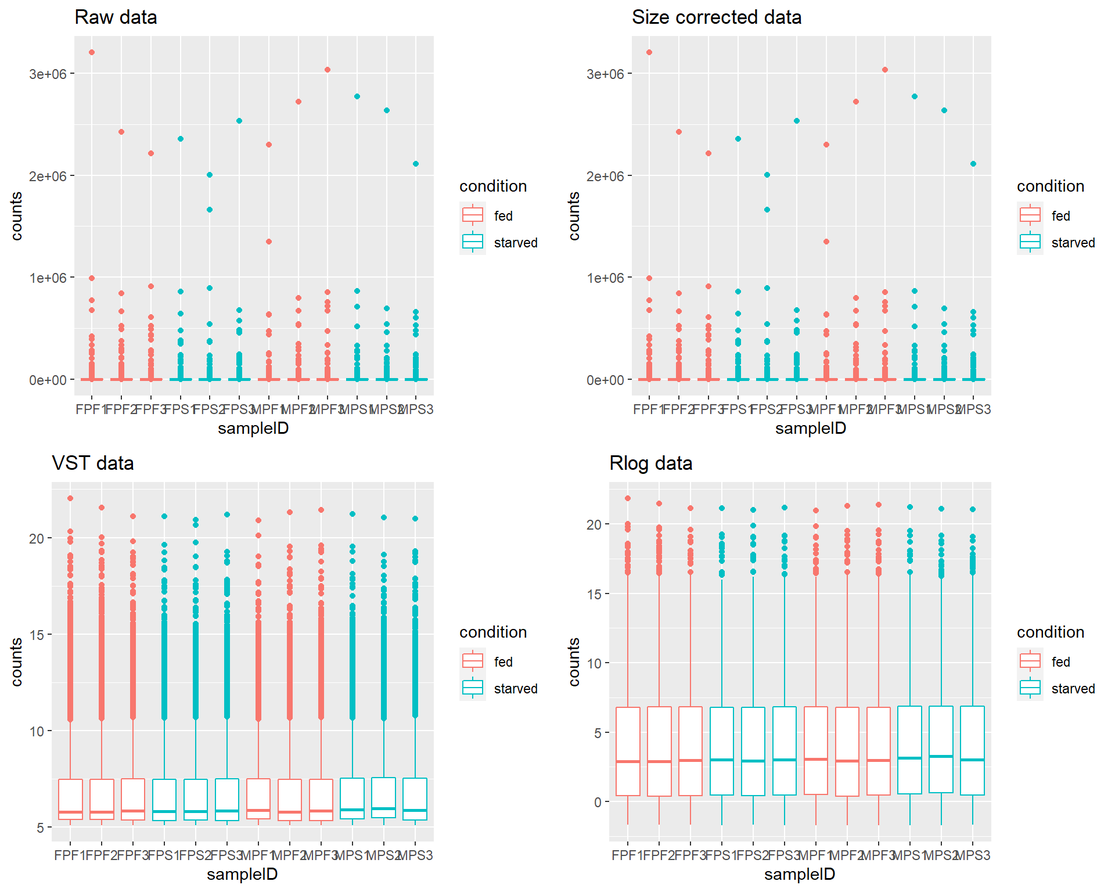
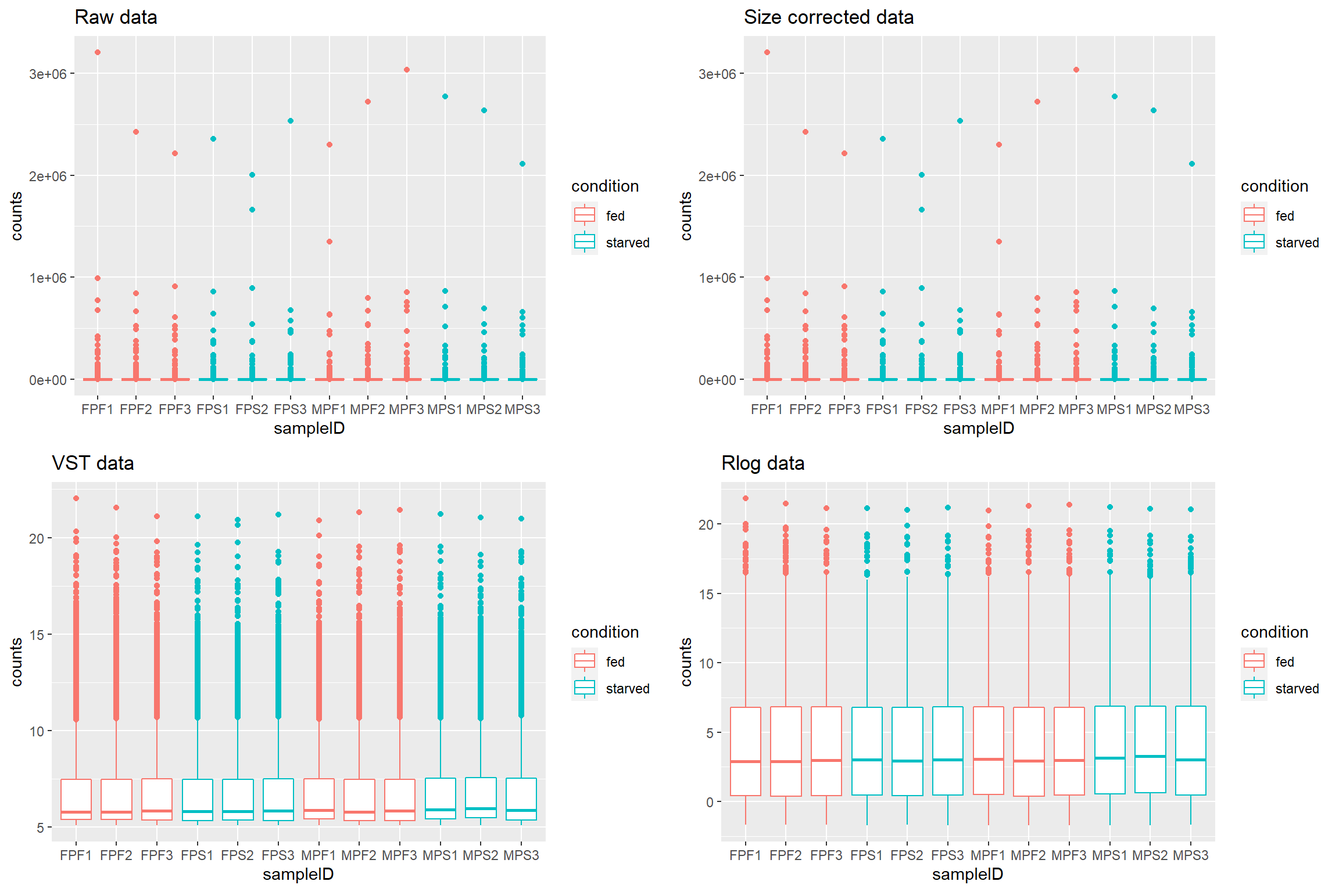
collapsible code

diff --git a/docs/de.html b/docs/de.html
@@ -285,7 +285,7 @@ href="https://bioconductor.org/packages/release/bioc/vignettes/tximport/inst/doc
 <p>The data for this tutorial comes from an the salivary glands of 12
 <em>N. pustulatus</em> beetles, half of which were starved from 5
 days.</p>
-<template id="35153314-d8a1-446e-b3de-abcb552cb8df"><style>
+<template id="77813add-142c-4a56-990d-516400593a04"><style>
 .tabwid table{
   border-spacing:0px !important;
   border-collapse:collapse;
@@ -324,11 +324,11 @@ background-color: transparent;
 .katex-display {
     margin: 0 0 !important;
 }
-</style><div class="tabwid"><style>.cl-70f02a1c{}.cl-70e30e5e{font-family:'Arial';font-size:11pt;font-weight:normal;font-style:normal;text-decoration:none;color:rgba(0, 0, 0, 1.00);background-color:transparent;}.cl-70ea7b26{margin:0;text-align:left;border-bottom: 0 solid rgba(0, 0, 0, 1.00);border-top: 0 solid rgba(0, 0, 0, 1.00);border-left: 0 solid rgba(0, 0, 0, 1.00);border-right: 0 solid rgba(0, 0, 0, 1.00);padding-bottom:5pt;padding-top:5pt;padding-left:5pt;padding-right:5pt;line-height: 1;background-color:transparent;}.cl-70ea957a{width:0.75in;background-color:transparent;vertical-align: middle;border-bottom: 2pt solid rgba(102, 102, 102, 1.00);border-top: 2pt solid rgba(102, 102, 102, 1.00);border-left: 0 solid rgba(0, 0, 0, 1.00);border-right: 0 solid rgba(0, 0, 0, 1.00);margin-bottom:0;margin-top:0;margin-left:0;margin-right:0;}.cl-70ea9584{width:0.75in;background-color:transparent;vertical-align: middle;border-bottom: 0 solid rgba(0, 0, 0, 1.00);border-top: 0 solid rgba(0, 0, 0, 1.00);border-left: 0 solid rgba(0, 0, 0, 1.00);border-right: 0 solid rgba(0, 0, 0, 1.00);margin-bottom:0;margin-top:0;margin-left:0;margin-right:0;}.cl-70ea9585{width:0.75in;background-color:transparent;vertical-align: middle;border-bottom: 2pt solid rgba(102, 102, 102, 1.00);border-top: 0 solid rgba(0, 0, 0, 1.00);border-left: 0 solid rgba(0, 0, 0, 1.00);border-right: 0 solid rgba(0, 0, 0, 1.00);margin-bottom:0;margin-top:0;margin-left:0;margin-right:0;}</style><table class='cl-70f02a1c'><thead><tr style="overflow-wrap:break-word;"><td class="cl-70ea957a"><p class="cl-70ea7b26"><span class="cl-70e30e5e">sampleID</span></p></td><td class="cl-70ea957a"><p class="cl-70ea7b26"><span class="cl-70e30e5e">gender</span></p></td><td class="cl-70ea957a"><p class="cl-70ea7b26"><span class="cl-70e30e5e">condition</span></p></td></tr></thead><tbody><tr style="overflow-wrap:break-word;"><td class="cl-70ea9584"><p class="cl-70ea7b26"><span class="cl-70e30e5e">FPF1</span></p></td><td class="cl-70ea9584"><p class="cl-70ea7b26"><span class="cl-70e30e5e">female</span></p></td><td class="cl-70ea9584"><p class="cl-70ea7b26"><span class="cl-70e30e5e">fed</span></p></td></tr><tr style="overflow-wrap:break-word;"><td class="cl-70ea9584"><p class="cl-70ea7b26"><span class="cl-70e30e5e">FPF2</span></p></td><td class="cl-70ea9584"><p class="cl-70ea7b26"><span class="cl-70e30e5e">female</span></p></td><td class="cl-70ea9584"><p class="cl-70ea7b26"><span class="cl-70e30e5e">fed</span></p></td></tr><tr style="overflow-wrap:break-word;"><td class="cl-70ea9584"><p class="cl-70ea7b26"><span class="cl-70e30e5e">FPF3</span></p></td><td class="cl-70ea9584"><p class="cl-70ea7b26"><span class="cl-70e30e5e">female</span></p></td><td class="cl-70ea9584"><p class="cl-70ea7b26"><span class="cl-70e30e5e">fed</span></p></td></tr><tr style="overflow-wrap:break-word;"><td class="cl-70ea9584"><p class="cl-70ea7b26"><span class="cl-70e30e5e">FPS1</span></p></td><td class="cl-70ea9584"><p class="cl-70ea7b26"><span class="cl-70e30e5e">female</span></p></td><td class="cl-70ea9584"><p class="cl-70ea7b26"><span class="cl-70e30e5e">starved</span></p></td></tr><tr style="overflow-wrap:break-word;"><td class="cl-70ea9584"><p class="cl-70ea7b26"><span class="cl-70e30e5e">FPS2</span></p></td><td class="cl-70ea9584"><p class="cl-70ea7b26"><span class="cl-70e30e5e">female</span></p></td><td class="cl-70ea9584"><p class="cl-70ea7b26"><span class="cl-70e30e5e">starved</span></p></td></tr><tr style="overflow-wrap:break-word;"><td class="cl-70ea9584"><p class="cl-70ea7b26"><span class="cl-70e30e5e">FPS3</span></p></td><td class="cl-70ea9584"><p class="cl-70ea7b26"><span class="cl-70e30e5e">female</span></p></td><td class="cl-70ea9584"><p class="cl-70ea7b26"><span class="cl-70e30e5e">starved</span></p></td></tr><tr style="overflow-wrap:break-word;"><td class="cl-70ea9584"><p class="cl-70ea7b26"><span class="cl-70e30e5e">MPF1</span></p></td><td class="cl-70ea9584"><p class="cl-70ea7b26"><span class="cl-70e30e5e">male</span></p></td><td class="cl-70ea9584"><p class="cl-70ea7b26"><span class="cl-70e30e5e">fed</span></p></td></tr><tr style="overflow-wrap:break-word;"><td class="cl-70ea9584"><p class="cl-70ea7b26"><span class="cl-70e30e5e">MPF2</span></p></td><td class="cl-70ea9584"><p class="cl-70ea7b26"><span class="cl-70e30e5e">male</span></p></td><td class="cl-70ea9584"><p class="cl-70ea7b26"><span class="cl-70e30e5e">fed</span></p></td></tr><tr style="overflow-wrap:break-word;"><td class="cl-70ea9584"><p class="cl-70ea7b26"><span class="cl-70e30e5e">MPF3</span></p></td><td class="cl-70ea9584"><p class="cl-70ea7b26"><span class="cl-70e30e5e">male</span></p></td><td class="cl-70ea9584"><p class="cl-70ea7b26"><span class="cl-70e30e5e">fed</span></p></td></tr><tr style="overflow-wrap:break-word;"><td class="cl-70ea9584"><p class="cl-70ea7b26"><span class="cl-70e30e5e">MPS1</span></p></td><td class="cl-70ea9584"><p class="cl-70ea7b26"><span class="cl-70e30e5e">male</span></p></td><td class="cl-70ea9584"><p class="cl-70ea7b26"><span class="cl-70e30e5e">starved</span></p></td></tr><tr style="overflow-wrap:break-word;"><td class="cl-70ea9584"><p class="cl-70ea7b26"><span class="cl-70e30e5e">MPS2</span></p></td><td class="cl-70ea9584"><p class="cl-70ea7b26"><span class="cl-70e30e5e">male</span></p></td><td class="cl-70ea9584"><p class="cl-70ea7b26"><span class="cl-70e30e5e">starved</span></p></td></tr><tr style="overflow-wrap:break-word;"><td class="cl-70ea9585"><p class="cl-70ea7b26"><span class="cl-70e30e5e">MPS3</span></p></td><td class="cl-70ea9585"><p class="cl-70ea7b26"><span class="cl-70e30e5e">male</span></p></td><td class="cl-70ea9585"><p class="cl-70ea7b26"><span class="cl-70e30e5e">starved</span></p></td></tr></tbody></table></div></template>
-<div class="flextable-shadow-host" id="345a548d-ea21-42ee-8728-058b1f7adbd6"></div>
+</style><div class="tabwid"><style>.cl-889bb9c0{}.cl-888bdbea{font-family:'Arial';font-size:11pt;font-weight:normal;font-style:normal;text-decoration:none;color:rgba(0, 0, 0, 1.00);background-color:transparent;}.cl-889224d2{margin:0;text-align:left;border-bottom: 0 solid rgba(0, 0, 0, 1.00);border-top: 0 solid rgba(0, 0, 0, 1.00);border-left: 0 solid rgba(0, 0, 0, 1.00);border-right: 0 solid rgba(0, 0, 0, 1.00);padding-bottom:5pt;padding-top:5pt;padding-left:5pt;padding-right:5pt;line-height: 1;background-color:transparent;}.cl-889249d0{width:0.75in;background-color:transparent;vertical-align: middle;border-bottom: 2pt solid rgba(102, 102, 102, 1.00);border-top: 2pt solid rgba(102, 102, 102, 1.00);border-left: 0 solid rgba(0, 0, 0, 1.00);border-right: 0 solid rgba(0, 0, 0, 1.00);margin-bottom:0;margin-top:0;margin-left:0;margin-right:0;}.cl-889249da{width:0.75in;background-color:transparent;vertical-align: middle;border-bottom: 0 solid rgba(0, 0, 0, 1.00);border-top: 0 solid rgba(0, 0, 0, 1.00);border-left: 0 solid rgba(0, 0, 0, 1.00);border-right: 0 solid rgba(0, 0, 0, 1.00);margin-bottom:0;margin-top:0;margin-left:0;margin-right:0;}.cl-889249e4{width:0.75in;background-color:transparent;vertical-align: middle;border-bottom: 2pt solid rgba(102, 102, 102, 1.00);border-top: 0 solid rgba(0, 0, 0, 1.00);border-left: 0 solid rgba(0, 0, 0, 1.00);border-right: 0 solid rgba(0, 0, 0, 1.00);margin-bottom:0;margin-top:0;margin-left:0;margin-right:0;}</style><table class='cl-889bb9c0'><thead><tr style="overflow-wrap:break-word;"><td class="cl-889249d0"><p class="cl-889224d2"><span class="cl-888bdbea">sampleID</span></p></td><td class="cl-889249d0"><p class="cl-889224d2"><span class="cl-888bdbea">gender</span></p></td><td class="cl-889249d0"><p class="cl-889224d2"><span class="cl-888bdbea">condition</span></p></td></tr></thead><tbody><tr style="overflow-wrap:break-word;"><td class="cl-889249da"><p class="cl-889224d2"><span class="cl-888bdbea">FPF1</span></p></td><td class="cl-889249da"><p class="cl-889224d2"><span class="cl-888bdbea">female</span></p></td><td class="cl-889249da"><p class="cl-889224d2"><span class="cl-888bdbea">fed</span></p></td></tr><tr style="overflow-wrap:break-word;"><td class="cl-889249da"><p class="cl-889224d2"><span class="cl-888bdbea">FPF2</span></p></td><td class="cl-889249da"><p class="cl-889224d2"><span class="cl-888bdbea">female</span></p></td><td class="cl-889249da"><p class="cl-889224d2"><span class="cl-888bdbea">fed</span></p></td></tr><tr style="overflow-wrap:break-word;"><td class="cl-889249da"><p class="cl-889224d2"><span class="cl-888bdbea">FPF3</span></p></td><td class="cl-889249da"><p class="cl-889224d2"><span class="cl-888bdbea">female</span></p></td><td class="cl-889249da"><p class="cl-889224d2"><span class="cl-888bdbea">fed</span></p></td></tr><tr style="overflow-wrap:break-word;"><td class="cl-889249da"><p class="cl-889224d2"><span class="cl-888bdbea">FPS1</span></p></td><td class="cl-889249da"><p class="cl-889224d2"><span class="cl-888bdbea">female</span></p></td><td class="cl-889249da"><p class="cl-889224d2"><span class="cl-888bdbea">starved</span></p></td></tr><tr style="overflow-wrap:break-word;"><td class="cl-889249da"><p class="cl-889224d2"><span class="cl-888bdbea">FPS2</span></p></td><td class="cl-889249da"><p class="cl-889224d2"><span class="cl-888bdbea">female</span></p></td><td class="cl-889249da"><p class="cl-889224d2"><span class="cl-888bdbea">starved</span></p></td></tr><tr style="overflow-wrap:break-word;"><td class="cl-889249da"><p class="cl-889224d2"><span class="cl-888bdbea">FPS3</span></p></td><td class="cl-889249da"><p class="cl-889224d2"><span class="cl-888bdbea">female</span></p></td><td class="cl-889249da"><p class="cl-889224d2"><span class="cl-888bdbea">starved</span></p></td></tr><tr style="overflow-wrap:break-word;"><td class="cl-889249da"><p class="cl-889224d2"><span class="cl-888bdbea">MPF1</span></p></td><td class="cl-889249da"><p class="cl-889224d2"><span class="cl-888bdbea">male</span></p></td><td class="cl-889249da"><p class="cl-889224d2"><span class="cl-888bdbea">fed</span></p></td></tr><tr style="overflow-wrap:break-word;"><td class="cl-889249da"><p class="cl-889224d2"><span class="cl-888bdbea">MPF2</span></p></td><td class="cl-889249da"><p class="cl-889224d2"><span class="cl-888bdbea">male</span></p></td><td class="cl-889249da"><p class="cl-889224d2"><span class="cl-888bdbea">fed</span></p></td></tr><tr style="overflow-wrap:break-word;"><td class="cl-889249da"><p class="cl-889224d2"><span class="cl-888bdbea">MPF3</span></p></td><td class="cl-889249da"><p class="cl-889224d2"><span class="cl-888bdbea">male</span></p></td><td class="cl-889249da"><p class="cl-889224d2"><span class="cl-888bdbea">fed</span></p></td></tr><tr style="overflow-wrap:break-word;"><td class="cl-889249da"><p class="cl-889224d2"><span class="cl-888bdbea">MPS1</span></p></td><td class="cl-889249da"><p class="cl-889224d2"><span class="cl-888bdbea">male</span></p></td><td class="cl-889249da"><p class="cl-889224d2"><span class="cl-888bdbea">starved</span></p></td></tr><tr style="overflow-wrap:break-word;"><td class="cl-889249da"><p class="cl-889224d2"><span class="cl-888bdbea">MPS2</span></p></td><td class="cl-889249da"><p class="cl-889224d2"><span class="cl-888bdbea">male</span></p></td><td class="cl-889249da"><p class="cl-889224d2"><span class="cl-888bdbea">starved</span></p></td></tr><tr style="overflow-wrap:break-word;"><td class="cl-889249e4"><p class="cl-889224d2"><span class="cl-888bdbea">MPS3</span></p></td><td class="cl-889249e4"><p class="cl-889224d2"><span class="cl-888bdbea">male</span></p></td><td class="cl-889249e4"><p class="cl-889224d2"><span class="cl-888bdbea">starved</span></p></td></tr></tbody></table></div></template>
+<div class="flextable-shadow-host" id="3472c8ae-8b02-4d86-98cf-b1729b103a0a"></div>
 <script>
-var dest = document.getElementById("345a548d-ea21-42ee-8728-058b1f7adbd6");
-var template = document.getElementById("35153314-d8a1-446e-b3de-abcb552cb8df");
+var dest = document.getElementById("3472c8ae-8b02-4d86-98cf-b1729b103a0a");
+var template = document.getElementById("77813add-142c-4a56-990d-516400593a04");
 var caption = template.content.querySelector("caption");
 var fantome = dest.attachShadow({mode: 'open'});
 var templateContent = template.content;
@@ -459,7 +459,7 @@ particular gene/transcript if raw data were used for the analysis.</p>
 <span id="cb14-7"><a href="#cb14-7" aria-hidden="true" tabindex="-1"></a>  <span class="fu">geom_col</span>() <span class="sc">+</span></span>
 <span id="cb14-8"><a href="#cb14-8" aria-hidden="true" tabindex="-1"></a>  <span class="fu">labs</span>(<span class="at">x =</span> <span class="st">&#39;Sample Name&#39;</span>,</span>
 <span id="cb14-9"><a href="#cb14-9" aria-hidden="true" tabindex="-1"></a>       <span class="at">y =</span> <span class="st">&#39;Library size&#39;</span>)</span></code></pre></div>
-<p><img src="de_files/figure-html/unnamed-chunk-7-1.png" width="960" /></p>
+<p><img src="de_files/figure-html/unnamed-chunk-7-1.png" width="1152" style="display: block; margin: auto;" /></p>
 <p>To deal with these differences <strong>size factors</strong> need to
 be calculated and then incorporated in the data to make the counts more
 comparable. In the case of <code>DESeq2</code>, the estimated size
@@ -477,7 +477,7 @@ particular gene/transcript across several samples, the counts among
 those samples should be made comparable and not an effect of external
 factors. Several methods for normalizing RNA-seq data have been proposed
 but not all have passed the test of time.</p>
-<template id="513d0002-9e62-499b-9b6d-f805c4bd7ccd"><style>
+<template id="f3e32686-64d3-43b6-a28a-66265844c003"><style>
 .tabwid table{
   border-spacing:0px !important;
   border-collapse:collapse;
@@ -516,11 +516,11 @@ background-color: transparent;
 .katex-display {
     margin: 0 0 !important;
 }
-</style><div class="tabwid"><style>.cl-72a0caec{}.cl-72944c22{font-family:'Arial';font-size:11pt;font-weight:normal;font-style:normal;text-decoration:none;color:rgba(0, 0, 0, 1.00);background-color:transparent;}.cl-72994326{margin:0;text-align:left;border-bottom: 0 solid rgba(0, 0, 0, 1.00);border-top: 0 solid rgba(0, 0, 0, 1.00);border-left: 0 solid rgba(0, 0, 0, 1.00);border-right: 0 solid rgba(0, 0, 0, 1.00);padding-bottom:5pt;padding-top:5pt;padding-left:5pt;padding-right:5pt;line-height: 1;background-color:transparent;}.cl-72995a6e{width:0.75in;background-color:transparent;vertical-align: middle;border-bottom: 2pt solid rgba(102, 102, 102, 1.00);border-top: 2pt solid rgba(102, 102, 102, 1.00);border-left: 0 solid rgba(0, 0, 0, 1.00);border-right: 0 solid rgba(0, 0, 0, 1.00);margin-bottom:0;margin-top:0;margin-left:0;margin-right:0;}.cl-72995a78{width:0.75in;background-color:transparent;vertical-align: middle;border-bottom: 0 solid rgba(0, 0, 0, 1.00);border-top: 0 solid rgba(0, 0, 0, 1.00);border-left: 0 solid rgba(0, 0, 0, 1.00);border-right: 0 solid rgba(0, 0, 0, 1.00);margin-bottom:0;margin-top:0;margin-left:0;margin-right:0;}.cl-72995a79{width:0.75in;background-color:transparent;vertical-align: middle;border-bottom: 2pt solid rgba(102, 102, 102, 1.00);border-top: 0 solid rgba(0, 0, 0, 1.00);border-left: 0 solid rgba(0, 0, 0, 1.00);border-right: 0 solid rgba(0, 0, 0, 1.00);margin-bottom:0;margin-top:0;margin-left:0;margin-right:0;}</style><table class='cl-72a0caec'><thead><tr style="overflow-wrap:break-word;"><td class="cl-72995a6e"><p class="cl-72994326"><span class="cl-72944c22">Normalization method</span></p></td><td class="cl-72995a6e"><p class="cl-72994326"><span class="cl-72944c22">Description</span></p></td><td class="cl-72995a6e"><p class="cl-72994326"><span class="cl-72944c22">Accounted factors</span></p></td><td class="cl-72995a6e"><p class="cl-72994326"><span class="cl-72944c22">Recommendations for use</span></p></td></tr></thead><tbody><tr style="overflow-wrap:break-word;"><td class="cl-72995a78"><p class="cl-72994326"><span class="cl-72944c22">CPM<a0>(counts per million)</span></p></td><td class="cl-72995a78"><p class="cl-72994326"><span class="cl-72944c22">counts scaled by total number of reads</span></p></td><td class="cl-72995a78"><p class="cl-72994326"><span class="cl-72944c22">sequencing depth</span></p></td><td class="cl-72995a78"><p class="cl-72994326"><span class="cl-72944c22">gene count comparisons between replicates of the same samplegroup;<a0>NOT for within sample comparisons or DE analysis</span></p></td></tr><tr style="overflow-wrap:break-word;"><td class="cl-72995a78"><p class="cl-72994326"><span class="cl-72944c22">TPM<a0>(transcripts per kilobase million)</span></p></td><td class="cl-72995a78"><p class="cl-72994326"><span class="cl-72944c22">counts per length of transcript (kb) per million reads mapped</span></p></td><td class="cl-72995a78"><p class="cl-72994326"><span class="cl-72944c22">sequencing depth and gene length</span></p></td><td class="cl-72995a78"><p class="cl-72994326"><span class="cl-72944c22">gene count comparisons within a sample or between samples of the same sample group;<a0>NOT for DE analysis</span></p></td></tr><tr style="overflow-wrap:break-word;"><td class="cl-72995a78"><p class="cl-72994326"><span class="cl-72944c22">RPKM/FPKM<a0>(reads/fragments per kilobase of exon per million reads/fragments mapped)</span></p></td><td class="cl-72995a78"><p class="cl-72994326"><span class="cl-72944c22">similar to TPM</span></p></td><td class="cl-72995a78"><p class="cl-72994326"><span class="cl-72944c22">sequencing depth and gene length</span></p></td><td class="cl-72995a78"><p class="cl-72994326"><span class="cl-72944c22">gene count comparisons between genes within a sample;<a0>NOT for between sample comparisons or DE analysis</span></p></td></tr><tr style="overflow-wrap:break-word;"><td class="cl-72995a78"><p class="cl-72994326"><span class="cl-72944c22">DESeq2<92>s<a0>median of ratios</span></p></td><td class="cl-72995a78"><p class="cl-72994326"><span class="cl-72944c22">counts divided by sample-specific size factors determined by median ratio of gene counts relative to geometric mean per gene</span></p></td><td class="cl-72995a78"><p class="cl-72994326"><span class="cl-72944c22">sequencing depth and RNA composition</span></p></td><td class="cl-72995a78"><p class="cl-72994326"><span class="cl-72944c22">gene count comparisons between samples and for<a0>DE analysis;<a0>NOT for within sample comparisons</span></p></td></tr><tr style="overflow-wrap:break-word;"><td class="cl-72995a79"><p class="cl-72994326"><span class="cl-72944c22">EdgeR<92>s<a0>trimmed mean of M values (TMM)</span></p></td><td class="cl-72995a79"><p class="cl-72994326"><span class="cl-72944c22">uses a weighted trimmed mean of the log expression ratios between samples</span></p></td><td class="cl-72995a79"><p class="cl-72994326"><span class="cl-72944c22">sequencing depth, RNA composition, and gene length</span></p></td><td class="cl-72995a79"><p class="cl-72994326"><span class="cl-72944c22">gene count comparisons between and within samples and for<a0>DE analysis</span></p></td></tr></tbody></table></div></template>
-<div class="flextable-shadow-host" id="77706350-57fd-4f9d-9705-5fa36b0c8136"></div>
+</style><div class="tabwid"><style>.cl-8b38f922{}.cl-8b2c0ca8{font-family:'Arial';font-size:11pt;font-weight:normal;font-style:normal;text-decoration:none;color:rgba(0, 0, 0, 1.00);background-color:transparent;}.cl-8b318570{margin:0;text-align:left;border-bottom: 0 solid rgba(0, 0, 0, 1.00);border-top: 0 solid rgba(0, 0, 0, 1.00);border-left: 0 solid rgba(0, 0, 0, 1.00);border-right: 0 solid rgba(0, 0, 0, 1.00);padding-bottom:5pt;padding-top:5pt;padding-left:5pt;padding-right:5pt;line-height: 1;background-color:transparent;}.cl-8b31a2ee{width:0.75in;background-color:transparent;vertical-align: middle;border-bottom: 2pt solid rgba(102, 102, 102, 1.00);border-top: 2pt solid rgba(102, 102, 102, 1.00);border-left: 0 solid rgba(0, 0, 0, 1.00);border-right: 0 solid rgba(0, 0, 0, 1.00);margin-bottom:0;margin-top:0;margin-left:0;margin-right:0;}.cl-8b31a2f8{width:0.75in;background-color:transparent;vertical-align: middle;border-bottom: 0 solid rgba(0, 0, 0, 1.00);border-top: 0 solid rgba(0, 0, 0, 1.00);border-left: 0 solid rgba(0, 0, 0, 1.00);border-right: 0 solid rgba(0, 0, 0, 1.00);margin-bottom:0;margin-top:0;margin-left:0;margin-right:0;}.cl-8b31a2f9{width:0.75in;background-color:transparent;vertical-align: middle;border-bottom: 2pt solid rgba(102, 102, 102, 1.00);border-top: 0 solid rgba(0, 0, 0, 1.00);border-left: 0 solid rgba(0, 0, 0, 1.00);border-right: 0 solid rgba(0, 0, 0, 1.00);margin-bottom:0;margin-top:0;margin-left:0;margin-right:0;}</style><table class='cl-8b38f922'><thead><tr style="overflow-wrap:break-word;"><td class="cl-8b31a2ee"><p class="cl-8b318570"><span class="cl-8b2c0ca8">Normalization method</span></p></td><td class="cl-8b31a2ee"><p class="cl-8b318570"><span class="cl-8b2c0ca8">Description</span></p></td><td class="cl-8b31a2ee"><p class="cl-8b318570"><span class="cl-8b2c0ca8">Accounted factors</span></p></td><td class="cl-8b31a2ee"><p class="cl-8b318570"><span class="cl-8b2c0ca8">Recommendations for use</span></p></td></tr></thead><tbody><tr style="overflow-wrap:break-word;"><td class="cl-8b31a2f8"><p class="cl-8b318570"><span class="cl-8b2c0ca8">CPM<a0>(counts per million)</span></p></td><td class="cl-8b31a2f8"><p class="cl-8b318570"><span class="cl-8b2c0ca8">counts scaled by total number of reads</span></p></td><td class="cl-8b31a2f8"><p class="cl-8b318570"><span class="cl-8b2c0ca8">sequencing depth</span></p></td><td class="cl-8b31a2f8"><p class="cl-8b318570"><span class="cl-8b2c0ca8">gene count comparisons between replicates of the same samplegroup;<a0>NOT for within sample comparisons or DE analysis</span></p></td></tr><tr style="overflow-wrap:break-word;"><td class="cl-8b31a2f8"><p class="cl-8b318570"><span class="cl-8b2c0ca8">TPM<a0>(transcripts per kilobase million)</span></p></td><td class="cl-8b31a2f8"><p class="cl-8b318570"><span class="cl-8b2c0ca8">counts per length of transcript (kb) per million reads mapped</span></p></td><td class="cl-8b31a2f8"><p class="cl-8b318570"><span class="cl-8b2c0ca8">sequencing depth and gene length</span></p></td><td class="cl-8b31a2f8"><p class="cl-8b318570"><span class="cl-8b2c0ca8">gene count comparisons within a sample or between samples of the same sample group;<a0>NOT for DE analysis</span></p></td></tr><tr style="overflow-wrap:break-word;"><td class="cl-8b31a2f8"><p class="cl-8b318570"><span class="cl-8b2c0ca8">RPKM/FPKM<a0>(reads/fragments per kilobase of exon per million reads/fragments mapped)</span></p></td><td class="cl-8b31a2f8"><p class="cl-8b318570"><span class="cl-8b2c0ca8">similar to TPM</span></p></td><td class="cl-8b31a2f8"><p class="cl-8b318570"><span class="cl-8b2c0ca8">sequencing depth and gene length</span></p></td><td class="cl-8b31a2f8"><p class="cl-8b318570"><span class="cl-8b2c0ca8">gene count comparisons between genes within a sample;<a0>NOT for between sample comparisons or DE analysis</span></p></td></tr><tr style="overflow-wrap:break-word;"><td class="cl-8b31a2f8"><p class="cl-8b318570"><span class="cl-8b2c0ca8">DESeq2<92>s<a0>median of ratios</span></p></td><td class="cl-8b31a2f8"><p class="cl-8b318570"><span class="cl-8b2c0ca8">counts divided by sample-specific size factors determined by median ratio of gene counts relative to geometric mean per gene</span></p></td><td class="cl-8b31a2f8"><p class="cl-8b318570"><span class="cl-8b2c0ca8">sequencing depth and RNA composition</span></p></td><td class="cl-8b31a2f8"><p class="cl-8b318570"><span class="cl-8b2c0ca8">gene count comparisons between samples and for<a0>DE analysis;<a0>NOT for within sample comparisons</span></p></td></tr><tr style="overflow-wrap:break-word;"><td class="cl-8b31a2f9"><p class="cl-8b318570"><span class="cl-8b2c0ca8">EdgeR<92>s<a0>trimmed mean of M values (TMM)</span></p></td><td class="cl-8b31a2f9"><p class="cl-8b318570"><span class="cl-8b2c0ca8">uses a weighted trimmed mean of the log expression ratios between samples</span></p></td><td class="cl-8b31a2f9"><p class="cl-8b318570"><span class="cl-8b2c0ca8">sequencing depth, RNA composition, and gene length</span></p></td><td class="cl-8b31a2f9"><p class="cl-8b318570"><span class="cl-8b2c0ca8">gene count comparisons between and within samples and for<a0>DE analysis</span></p></td></tr></tbody></table></div></template>
+<div class="flextable-shadow-host" id="5c2d52e7-6fab-4f49-b693-103517e51666"></div>
 <script>
-var dest = document.getElementById("77706350-57fd-4f9d-9705-5fa36b0c8136");
-var template = document.getElementById("513d0002-9e62-499b-9b6d-f805c4bd7ccd");
+var dest = document.getElementById("5c2d52e7-6fab-4f49-b693-103517e51666");
+var template = document.getElementById("f3e32686-64d3-43b6-a28a-66265844c003");
 var caption = template.content.querySelector("caption");
 var fantome = dest.attachShadow({mode: 'open'});
 var templateContent = template.content;
@@ -543,15 +543,15 @@ work best when the data is independent of its own mean. Something that
 do not happen in RNA-seq data.</p>
 <div class="sourceCode" id="cb16"><pre class="sourceCode r"><code class="sourceCode r"><span id="cb16-1"><a href="#cb16-1" aria-hidden="true" tabindex="-1"></a><span class="fu">library</span>(vsn)</span>
 <span id="cb16-2"><a href="#cb16-2" aria-hidden="true" tabindex="-1"></a><span class="fu">meanSdPlot</span>(<span class="fu">assay</span>(dds))</span></code></pre></div>
-<p><img src="de_files/figure-html/unnamed-chunk-10-1.png" width="960" /></p>
+<p><img src="de_files/figure-html/unnamed-chunk-10-1.png" width="1152" style="display: block; margin: auto;" /></p>
 <p>Thus transforming is required.</p>
 <div class="sourceCode" id="cb17"><pre class="sourceCode r"><code class="sourceCode r"><span id="cb17-1"><a href="#cb17-1" aria-hidden="true" tabindex="-1"></a>vsd <span class="ot">&lt;-</span> <span class="fu">vst</span>(dds_e)</span>
 <span id="cb17-2"><a href="#cb17-2" aria-hidden="true" tabindex="-1"></a>rld <span class="ot">&lt;-</span> <span class="fu">rlog</span>(dds_e)</span>
 <span id="cb17-3"><a href="#cb17-3" aria-hidden="true" tabindex="-1"></a></span>
 <span id="cb17-4"><a href="#cb17-4" aria-hidden="true" tabindex="-1"></a><span class="fu">meanSdPlot</span>(<span class="fu">assay</span>(vsd))</span></code></pre></div>
-<p><img src="de_files/figure-html/unnamed-chunk-11-1.png" width="960" /></p>
+<p><img src="de_files/figure-html/unnamed-chunk-11-1.png" width="1152" style="display: block; margin: auto;" /></p>
 <div class="sourceCode" id="cb18"><pre class="sourceCode r"><code class="sourceCode r"><span id="cb18-1"><a href="#cb18-1" aria-hidden="true" tabindex="-1"></a><span class="fu">meanSdPlot</span>(<span class="fu">assay</span>(rld))</span></code></pre></div>
-<p><img src="de_files/figure-html/unnamed-chunk-11-2.png" width="960" /></p>
+<p><img src="de_files/figure-html/unnamed-chunk-11-2.png" width="1152" style="display: block; margin: auto;" /></p>
 </div>
 <div id="checking-transformed-read-counts" class="section level2">
 <h2>Checking transformed read counts</h2>
@@ -573,7 +573,7 @@ treatments we can join our count data with the metadata.</p>
 <span id="cb20-4"><a href="#cb20-4" aria-hidden="true" tabindex="-1"></a>             <span class="at">y =</span> counts,</span>
 <span id="cb20-5"><a href="#cb20-5" aria-hidden="true" tabindex="-1"></a>             <span class="at">color =</span> condition)) <span class="sc">+</span></span>
 <span id="cb20-6"><a href="#cb20-6" aria-hidden="true" tabindex="-1"></a>  <span class="fu">geom_boxplot</span>()</span></code></pre></div>
-<p><img src="de_files/figure-html/unnamed-chunk-13-1.png" width="960" /></p>
+<p><img src="de_files/figure-html/unnamed-chunk-13-1.png" width="1152" style="display: block; margin: auto;" /></p>
 <p><strong><em>What if we want to see how count distribution looks for
 the size corrected and transformed data. Should I copy and modify the
 same lines from above with different count matrices?</em></strong></p>
@@ -624,7 +624,7 @@ easily plot with <code>ggarrange</code> from <code>ggpubr</code>.</p>
 <div class="sourceCode" id="cb24"><pre class="sourceCode r"><code class="sourceCode r"><span id="cb24-1"><a href="#cb24-1" aria-hidden="true" tabindex="-1"></a><span class="fu">library</span>(ggpubr)</span>
 <span id="cb24-2"><a href="#cb24-2" aria-hidden="true" tabindex="-1"></a></span>
 <span id="cb24-3"><a href="#cb24-3" aria-hidden="true" tabindex="-1"></a><span class="fu">ggarrange</span>(<span class="at">plotlist =</span> count_plots)</span></code></pre></div>
-<p><img src="de_files/figure-html/unnamed-chunk-16-1.png" width="960" /></p>
+<p><img src="de_files/figure-html/unnamed-chunk-16-1.png" width="1152" style="display: block; margin: auto;" /></p>
 </div>
 <div id="sample-distances" class="section level2">
 <h2>Sample distances</h2>
@@ -652,7 +652,7 @@ exploratory analysis</p>
 <span id="cb25-14"><a href="#cb25-14" aria-hidden="true" tabindex="-1"></a>                <span class="at">annotation_col =</span> annotation)</span>
 <span id="cb25-15"><a href="#cb25-15" aria-hidden="true" tabindex="-1"></a></span>
 <span id="cb25-16"><a href="#cb25-16" aria-hidden="true" tabindex="-1"></a>ht1</span></code></pre></div>
-<p><img src="de_files/figure-html/unnamed-chunk-17-1.png" width="960" /></p>
+<p><img src="de_files/figure-html/unnamed-chunk-17-1.png" width="1152" style="display: block; margin: auto;" /></p>
 </div>
 <div id="pca" class="section level2">
 <h2>PCA</h2>
@@ -661,7 +661,7 @@ be used to visualize the similarities between the samples.
 <code>DESeq2</code> even provides a function, <code>plotPCA()</code> to
 directly plot the data</p>
 <div class="sourceCode" id="cb26"><pre class="sourceCode r"><code class="sourceCode r"><span id="cb26-1"><a href="#cb26-1" aria-hidden="true" tabindex="-1"></a><span class="fu">plotPCA</span>(vsd, <span class="at">intgroup =</span> <span class="st">&#39;condition&#39;</span>) </span></code></pre></div>
-<p><img src="de_files/figure-html/unnamed-chunk-18-1.png" width="960" /></p>
+<p><img src="de_files/figure-html/unnamed-chunk-18-1.png" width="1152" style="display: block; margin: auto;" /></p>
 <div class="hl_box">
 <p>The option <code>returnData = TRUE</code> can be added to the
 <code>plotPCA()</code> function to make it return a table with PCA data
@@ -838,7 +838,7 @@ gene of interest. For example to visualize the gene with the largest
 log2-fold change</p>
 <div class="sourceCode" id="cb51"><pre class="sourceCode r"><code class="sourceCode r"><span id="cb51-1"><a href="#cb51-1" aria-hidden="true" tabindex="-1"></a>top_lfc_gene <span class="ot">&lt;-</span> <span class="fu">rownames</span>(res_sig)[<span class="fu">which.max</span>(res_sig<span class="sc">$</span>log2FoldChange)]</span>
 <span id="cb51-2"><a href="#cb51-2" aria-hidden="true" tabindex="-1"></a><span class="fu">plotCounts</span>(dds, <span class="at">gene =</span> top_lfc_gene, <span class="at">intgroup =</span> <span class="st">&#39;condition&#39;</span>)</span></code></pre></div>
-<p><img src="de_files/figure-html/unnamed-chunk-28-1.png" width="960" /></p>
+<p><img src="de_files/figure-html/unnamed-chunk-28-1.png" width="1152" style="display: block; margin: auto;" /></p>
 <div class="hl_box">
 <p>Similar to the PCA plot, <code>plotCounts</code> can be used to
 retrieve only the data to plot later with <code>ggplot2</code>.</p>
@@ -853,7 +853,7 @@ retrieve only the data to plot later with <code>ggplot2</code>.</p>
 <span id="cb52-9"><a href="#cb52-9" aria-hidden="true" tabindex="-1"></a>           <span class="at">color =</span> gender)) <span class="sc">+</span></span>
 <span id="cb52-10"><a href="#cb52-10" aria-hidden="true" tabindex="-1"></a>  <span class="fu">geom_jitter</span>(<span class="at">size =</span> <span class="dv">3</span>,</span>
 <span id="cb52-11"><a href="#cb52-11" aria-hidden="true" tabindex="-1"></a>              <span class="at">width =</span> <span class="fl">0.1</span>)</span></code></pre></div>
-<p><img src="de_files/figure-html/unnamed-chunk-29-1.png" width="960" /></p>
+<p><img src="de_files/figure-html/unnamed-chunk-29-1.png" width="1152" style="display: block; margin: auto;" /></p>
 </div>
 </div>
 <div id="gene-clustering" class="section level3">
@@ -872,7 +872,7 @@ for better visualization.</p>
 <span id="cb53-8"><a href="#cb53-8" aria-hidden="true" tabindex="-1"></a>                <span class="at">annotation_col =</span> annotation)</span>
 <span id="cb53-9"><a href="#cb53-9" aria-hidden="true" tabindex="-1"></a></span>
 <span id="cb53-10"><a href="#cb53-10" aria-hidden="true" tabindex="-1"></a>ht2</span></code></pre></div>
-<p><img src="de_files/figure-html/unnamed-chunk-30-1.png" width="960" /></p>
+<p><img src="de_files/figure-html/unnamed-chunk-30-1.png" width="1152" style="display: block; margin: auto;" /></p>
 </div>
 <div id="volcano-plot" class="section level3">
 <h3>Volcano plot</h3>
@@ -880,26 +880,34 @@ for better visualization.</p>
 data. Sadly, <code>DESeq2</code> does not provide a function to plot it
 directly. However, we can build our own volcano plot with all what we
 have learned so far.</p>
-<p>First lets set threshold for our plot</p>
-<div class="sourceCode" id="cb54"><pre class="sourceCode r"><code class="sourceCode r"><span id="cb54-1"><a href="#cb54-1" aria-hidden="true" tabindex="-1"></a>lfc_t <span class="ot">&lt;-</span> <span class="dv">2</span></span>
-<span id="cb54-2"><a href="#cb54-2" aria-hidden="true" tabindex="-1"></a>padj_t <span class="ot">&lt;-</span> <span class="fl">0.05</span></span></code></pre></div>
-<p>Extract data for volcano and determine “significant” genes based on
-the thresholds</p>
-<div class="sourceCode" id="cb55"><pre class="sourceCode r"><code class="sourceCode r"><span id="cb55-1"><a href="#cb55-1" aria-hidden="true" tabindex="-1"></a>volcano_data <span class="ot">&lt;-</span> <span class="fu">data.frame</span>(res) <span class="sc">%&gt;%</span> </span>
-<span id="cb55-2"><a href="#cb55-2" aria-hidden="true" tabindex="-1"></a>  <span class="fu">mutate</span>(<span class="at">significant =</span> <span class="fu">ifelse</span>((<span class="fu">abs</span>(log2FoldChange) <span class="sc">&gt;</span> lfc_t <span class="sc">&amp;</span></span>
-<span id="cb55-3"><a href="#cb55-3" aria-hidden="true" tabindex="-1"></a>                                 <span class="sc">-</span><span class="fu">log10</span>(padj) <span class="sc">&gt;</span> <span class="sc">-</span><span class="fu">log10</span>(padj_t)), <span class="st">&#39;yes&#39;</span>, <span class="st">&#39;no&#39;</span>))</span></code></pre></div>
+<script src="js/hideOutput.js"></script>
+<p>Setup threshold for the plot. Extract data for volcano and determine
+“significant” genes based on the thresholds</p>
+<div class="fold s">
+<div class="sourceCode" id="cb54"><pre class="sourceCode r"><code class="sourceCode r"><span id="cb54-1"><a href="#cb54-1" aria-hidden="true" tabindex="-1"></a><span class="co">#Thresholds</span></span>
+<span id="cb54-2"><a href="#cb54-2" aria-hidden="true" tabindex="-1"></a>lfc_t <span class="ot">&lt;-</span> <span class="dv">2</span></span>
+<span id="cb54-3"><a href="#cb54-3" aria-hidden="true" tabindex="-1"></a>padj_t <span class="ot">&lt;-</span> <span class="fl">0.05</span></span>
+<span id="cb54-4"><a href="#cb54-4" aria-hidden="true" tabindex="-1"></a></span>
+<span id="cb54-5"><a href="#cb54-5" aria-hidden="true" tabindex="-1"></a><span class="co"># Extracting data</span></span>
+<span id="cb54-6"><a href="#cb54-6" aria-hidden="true" tabindex="-1"></a>volcano_data <span class="ot">&lt;-</span> <span class="fu">data.frame</span>(res) <span class="sc">%&gt;%</span> </span>
+<span id="cb54-7"><a href="#cb54-7" aria-hidden="true" tabindex="-1"></a>  <span class="fu">mutate</span>(<span class="at">significant =</span> <span class="fu">ifelse</span>((<span class="fu">abs</span>(log2FoldChange) <span class="sc">&gt;</span> lfc_t <span class="sc">&amp;</span></span>
+<span id="cb54-8"><a href="#cb54-8" aria-hidden="true" tabindex="-1"></a>                                 <span class="sc">-</span><span class="fu">log10</span>(padj) <span class="sc">&gt;</span> <span class="sc">-</span><span class="fu">log10</span>(padj_t)), <span class="st">&#39;yes&#39;</span>, <span class="st">&#39;no&#39;</span>))</span></code></pre></div>
+</div>
 <p>Plot the volcano with <code>ggplot2</code></p>
-<div class="sourceCode" id="cb56"><pre class="sourceCode r"><code class="sourceCode r"><span id="cb56-1"><a href="#cb56-1" aria-hidden="true" tabindex="-1"></a><span class="fu">ggplot</span>(volcano_data,</span>
-<span id="cb56-2"><a href="#cb56-2" aria-hidden="true" tabindex="-1"></a>       <span class="fu">aes</span>(<span class="at">x =</span> log2FoldChange,</span>
-<span id="cb56-3"><a href="#cb56-3" aria-hidden="true" tabindex="-1"></a>           <span class="at">y =</span> <span class="sc">-</span><span class="fu">log10</span>(padj),</span>
-<span id="cb56-4"><a href="#cb56-4" aria-hidden="true" tabindex="-1"></a>           <span class="at">color =</span> significant)) <span class="sc">+</span></span>
-<span id="cb56-5"><a href="#cb56-5" aria-hidden="true" tabindex="-1"></a>  <span class="fu">geom_point</span>(<span class="at">show.legend =</span> <span class="cn">FALSE</span>) <span class="sc">+</span></span>
-<span id="cb56-6"><a href="#cb56-6" aria-hidden="true" tabindex="-1"></a>  <span class="fu">scale_color_manual</span>(<span class="at">values =</span> <span class="fu">c</span>(<span class="st">&#39;no&#39;</span> <span class="ot">=</span> <span class="st">&#39;black&#39;</span>, <span class="st">&#39;yes&#39;</span> <span class="ot">=</span> <span class="st">&#39;red&#39;</span>))  <span class="sc">+</span></span>
-<span id="cb56-7"><a href="#cb56-7" aria-hidden="true" tabindex="-1"></a>  <span class="fu">geom_hline</span>(<span class="at">yintercept =</span> <span class="sc">-</span><span class="fu">log10</span>(padj_t), <span class="at">linetype =</span> <span class="st">&#39;dashed&#39;</span>) <span class="sc">+</span></span>
-<span id="cb56-8"><a href="#cb56-8" aria-hidden="true" tabindex="-1"></a>  <span class="fu">geom_vline</span>(<span class="at">xintercept =</span> <span class="fu">c</span>(lfc_t, <span class="sc">-</span>lfc_t), <span class="at">linetype =</span> <span class="st">&#39;dashed&#39;</span>) <span class="sc">+</span></span>
-<span id="cb56-9"><a href="#cb56-9" aria-hidden="true" tabindex="-1"></a>  <span class="fu">theme_bw</span>()</span></code></pre></div>
-<pre><code>## Warning: Removed 12038 rows containing missing values (geom_point).</code></pre>
-<p><img src="de_files/figure-html/unnamed-chunk-33-1.png" width="960" /></p>
+<div class="fold s">
+<div class="sourceCode" id="cb55"><pre class="sourceCode r"><code class="sourceCode r"><span id="cb55-1"><a href="#cb55-1" aria-hidden="true" tabindex="-1"></a></span>
+<span id="cb55-2"><a href="#cb55-2" aria-hidden="true" tabindex="-1"></a><span class="fu">ggplot</span>(volcano_data,</span>
+<span id="cb55-3"><a href="#cb55-3" aria-hidden="true" tabindex="-1"></a>       <span class="fu">aes</span>(<span class="at">x =</span> log2FoldChange,</span>
+<span id="cb55-4"><a href="#cb55-4" aria-hidden="true" tabindex="-1"></a>           <span class="at">y =</span> <span class="sc">-</span><span class="fu">log10</span>(padj),</span>
+<span id="cb55-5"><a href="#cb55-5" aria-hidden="true" tabindex="-1"></a>           <span class="at">color =</span> significant)) <span class="sc">+</span></span>
+<span id="cb55-6"><a href="#cb55-6" aria-hidden="true" tabindex="-1"></a>  <span class="fu">geom_point</span>(<span class="at">show.legend =</span> <span class="cn">FALSE</span>) <span class="sc">+</span></span>
+<span id="cb55-7"><a href="#cb55-7" aria-hidden="true" tabindex="-1"></a>  <span class="fu">scale_color_manual</span>(<span class="at">values =</span> <span class="fu">c</span>(<span class="st">&#39;no&#39;</span> <span class="ot">=</span> <span class="st">&#39;black&#39;</span>, <span class="st">&#39;yes&#39;</span> <span class="ot">=</span> <span class="st">&#39;red&#39;</span>))  <span class="sc">+</span></span>
+<span id="cb55-8"><a href="#cb55-8" aria-hidden="true" tabindex="-1"></a>  <span class="fu">geom_hline</span>(<span class="at">yintercept =</span> <span class="sc">-</span><span class="fu">log10</span>(padj_t), <span class="at">linetype =</span> <span class="st">&#39;dashed&#39;</span>) <span class="sc">+</span></span>
+<span id="cb55-9"><a href="#cb55-9" aria-hidden="true" tabindex="-1"></a>  <span class="fu">geom_vline</span>(<span class="at">xintercept =</span> <span class="fu">c</span>(lfc_t, <span class="sc">-</span>lfc_t), <span class="at">linetype =</span> <span class="st">&#39;dashed&#39;</span>) <span class="sc">+</span></span>
+<span id="cb55-10"><a href="#cb55-10" aria-hidden="true" tabindex="-1"></a>  <span class="fu">theme_bw</span>()</span>
+<span id="cb55-11"><a href="#cb55-11" aria-hidden="true" tabindex="-1"></a><span class="do">## Warning: Removed 12038 rows containing missing values (geom_point).</span></span></code></pre></div>
+<p><img src="de_files/figure-html/unnamed-chunk-32-1.png" width="1152" style="display: block; margin: auto;" /></p>
+</div>
 </div>
 </div>
 </div>

diff --git a/docs/js/hideOutput.js b/docs/js/hideOutput.js
@@ -1,0 +1,39 @@
+$(document).ready(function() {
+
+  $chunks = $('.fold');
+
+  $chunks.each(function () {
+
+    // add button to source code chunks
+    if ( $(this).hasClass('s') ) {
+      $('pre.r', this).prepend("<div class=\"showopt\">Show Source</div><br style=\"line-height:22px;\"/>");
+      $('pre.r', this).children('code').attr('class', 'folded');
+    }
+
+    // add button to output chunks
+    if ( $(this).hasClass('o') ) {
+      $('pre:not(.r)', this).has('code').prepend("<div class=\"showopt\">Show Output</div><br style=\"line-height:22px;\"/>");
+      $('pre:not(.r)', this).children('code:not(r)').addClass('folded');
+
+      // add button to plots
+      $(this).find('img').wrap('<pre class=\"plot\"></pre>');
+      $('pre.plot', this).prepend("<div class=\"showopt\">Show Plot</div><br style=\"line-height:22px;\"/>");
+      $('pre.plot', this).children('img').addClass('folded');
+
+    }
+  });
+
+  // hide all chunks when document is loaded
+  $('.folded').css('display', 'none')
+
+  // function to toggle the visibility
+  $('.showopt').click(function() {
+    var label = $(this).html();
+    if (label.indexOf("Show") >= 0) {
+      $(this).html(label.replace("Show", "Hide"));
+    } else {
+      $(this).html(label.replace("Hide", "Show"));
+    }
+    $(this).siblings('code, img').slideToggle('fast', 'swing');
+  });
+});

diff --git a/js/hideOutput.js b/js/hideOutput.js
@@ -1,0 +1,39 @@
+$(document).ready(function() {
+
+  $chunks = $('.fold');
+
+  $chunks.each(function () {
+
+    // add button to source code chunks
+    if ( $(this).hasClass('s') ) {
+      $('pre.r', this).prepend("<div class=\"showopt\">Show Source</div><br style=\"line-height:22px;\"/>");
+      $('pre.r', this).children('code').attr('class', 'folded');
+    }
+
+    // add button to output chunks
+    if ( $(this).hasClass('o') ) {
+      $('pre:not(.r)', this).has('code').prepend("<div class=\"showopt\">Show Output</div><br style=\"line-height:22px;\"/>");
+      $('pre:not(.r)', this).children('code:not(r)').addClass('folded');
+
+      // add button to plots
+      $(this).find('img').wrap('<pre class=\"plot\"></pre>');
+      $('pre.plot', this).prepend("<div class=\"showopt\">Show Plot</div><br style=\"line-height:22px;\"/>");
+      $('pre.plot', this).children('img').addClass('folded');
+
+    }
+  });
+
+  // hide all chunks when document is loaded
+  $('.folded').css('display', 'none')
+
+  // function to toggle the visibility
+  $('.showopt').click(function() {
+    var label = $(this).html();
+    if (label.indexOf("Show") >= 0) {
+      $(this).html(label.replace("Show", "Hide"));
+    } else {
+      $(this).html(label.replace("Hide", "Show"));
+    }
+    $(this).siblings('code, img').slideToggle('fast', 'swing');
+  });
+});

diff --git a/docs/input.html b/docs/input.html
@@ -242,11 +242,9 @@ file).</p>
 the intervals listed in the annotation file.</p>
 <div class="hl_box">
 <p><strong>What constitutes overlap?</strong></p>
-<p>xxxxxxx xxxxxxx</p>
-<p>xxxxxx xxxxxxxxx xxxxxxxxx</p>
-<p>xxxxxxx xxxxxxxxx</p>
-<p>xxxxxxx xxxxxxxxx xxxxxxxxx</p>
-<p>|&lt; GENE A &gt;|</p>
+<p align="center">
+<img src="figs/gene_overlap.png" width="350" title="Gene overlap">
+</p>
 <ul>
 <li>How many reads complete overlap gene A?</li>
 <li>How many reads overlap gene A at all?</li>
@@ -256,7 +254,11 @@ researcher must choose the one that is more appropriate for each
 case.</p>
 </div>
 <p>Most commonly used tool for feature quantification of BAM files is
-<code>featureCounts</code>.</p>
+<code>featureCounts</code> and <code>htseq-count</code>. However, the
+way that you count also has some ambiguity.</p>
+<p align="center">
+<img src="figs/counts_mode.PNG" width="350" title="Gene overlap">
+</p>
 </div>
 </div>
 <div id="classification-based-quantification" class="section level1">

diff --git a/css/styles.css b/css/styles.css
@@ -5,3 +5,24 @@
   border: 2px solid black;
   border-radius: 10px;
 }
+
+.showopt {
+  background-color: #004c93;
+  color: #FFFFFF; 
+  width: 100px;
+  height: 20px;
+  text-align: center;
+  vertical-align: middle !important;
+  float: right;
+  font-family: sans-serif;
+  border-radius: 8px;
+}
+
+.showopt:hover {
+    background-color: #dfe4f2;
+    color: #004c93;
+}
+
+pre.plot {
+  background-color: white !important;
+}

diff --git a/docs/css/styles.css b/docs/css/styles.css
@@ -5,3 +5,24 @@
   border: 2px solid black;
   border-radius: 10px;
 }
+
+.showopt {
+  background-color: #004c93;
+  color: #FFFFFF; 
+  width: 100px;
+  height: 20px;
+  text-align: center;
+  vertical-align: middle !important;
+  float: right;
+  font-family: sans-serif;
+  border-radius: 8px;
+}
+
+.showopt:hover {
+    background-color: #dfe4f2;
+    color: #004c93;
+}
+
+pre.plot {
+  background-color: white !important;
+}
